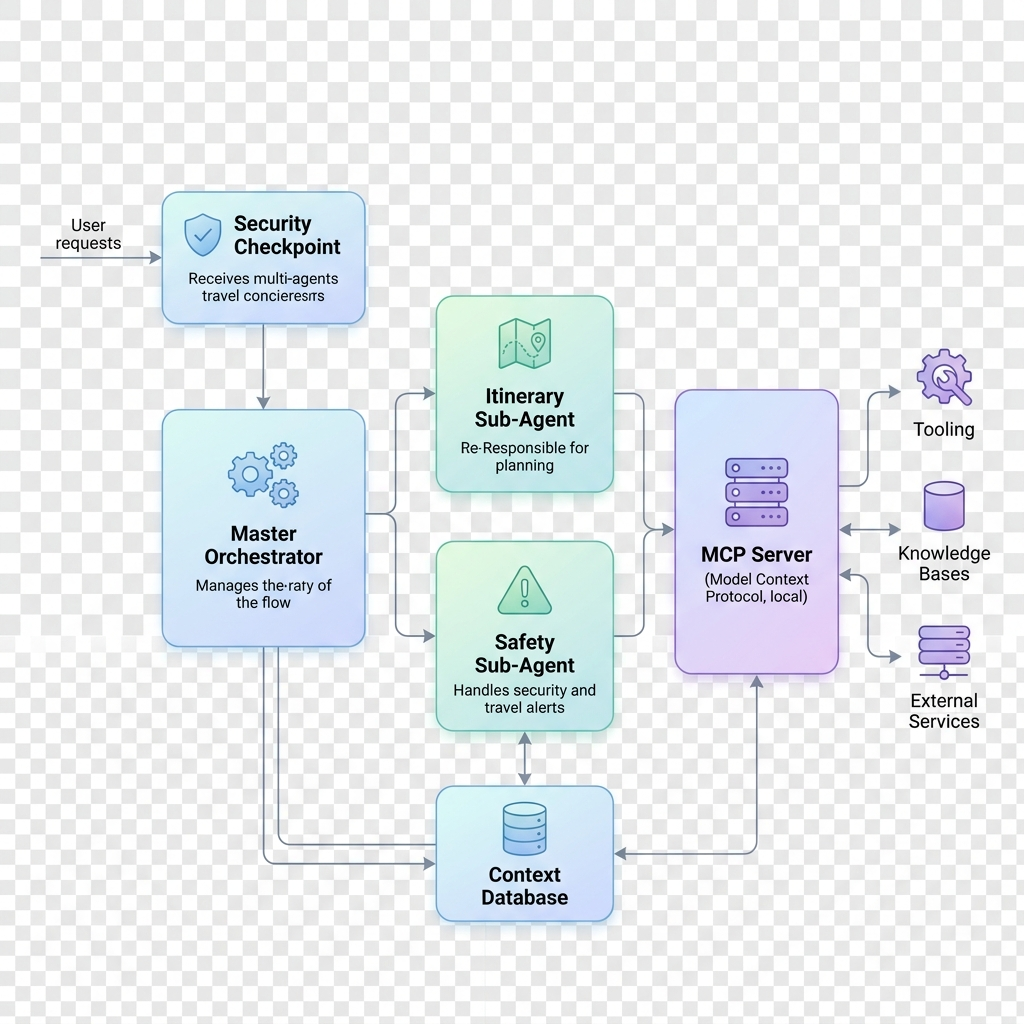
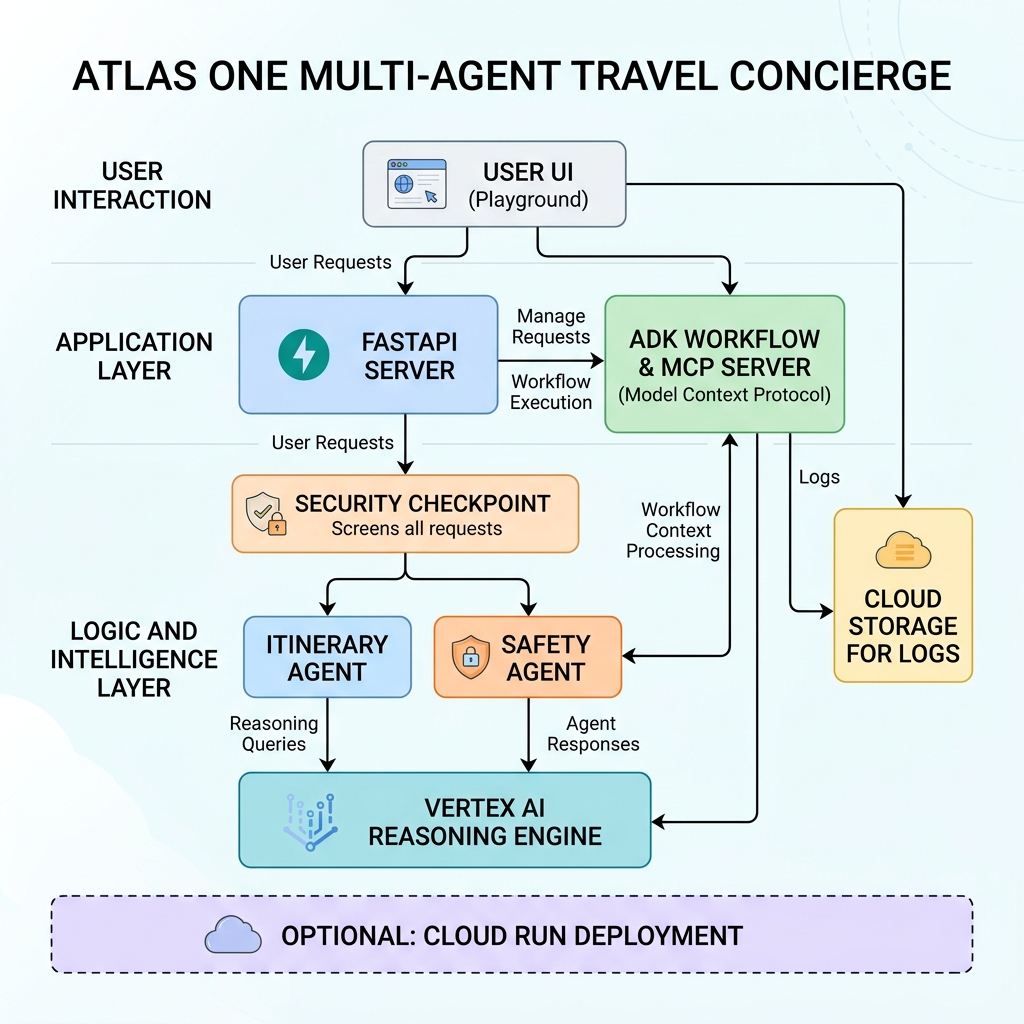
update in readme.md

diff --git a/README.md b/README.md
@@ -1,82 +1,146 @@
-# Atlas One: Multi-Agent Travel Concierge
+# Atlas One: Multi‑Agent Travel Concierge
 
-Atlas One is a secure, multi-agent travel concierge application built using the Agent Development Kit (ADK) 2.0 framework and Model Context Protocol (MCP). It features a robust multi-agent orchestration architecture, a local MCP server for real-time travel intelligence, a security checkpoint with PII scrubbing and threat blocking, and Human-in-the-Loop (HITL) execution.
+**Atlas One** is a secure, multi‑agent travel concierge built with the **Agent Development Kit (ADK) 2.0** and the **Model Context Protocol (MCP)**.  It showcases a robust workflow, PII‑scrubbing, prompt‑injection protection, and a Human‑in‑the‑Loop (HITL) confirmation step.
 
 ---
 
-## 🛠️ Project Structure
-
+## 📁 Project Structure
 ```
 atlas-one/
-├── app/
-│   ├── agent.py               # Workflow graph, security checkpoint, and agent definitions
-│   ├── config.py              # Application settings and model configurations
-│   └── mcp_server.py          # FastMCP server exposing travel advisory tools
-├── assets/                    # Generated project assets (architecture diagram, banner)
-├── debug_agent.py             # Offline test runner harness
-├── pyproject.toml             # Project dependencies and tool settings
-├── README.md                  # Main documentation
-└── SUBMISSION_WRITEUP.md      # Detailed architecture, security design, and verification writeup
+├── app/                     # Core agent code
+│   ├── agent.py            # Workflow graph, security checkpoint, sub‑agents
+│   ├── config.py           # Model & environment configuration
+│   └── mcp_server.py       # FastMCP server exposing travel‑tool APIs
+├── assets/                  # Architecture diagram, banner images
+├── debug_agent.py           # Offline test harness (runs the whole workflow locally)
+├── pyproject.toml           # Python dependencies & tool settings
+├── README.md                # Main documentation
+├── SUBMISSION_WRITEUP.md    # Detailed design & verification report
+└── tests/                   # Unit / integration tests (generated by ADK)
 ```
 
 ---
 
-## 🚀 Quick Start
+## 🚀 Quick Start (Local Development)
 
-### 1. Prerequisites
-- **Python**: 3.12 or higher
-- **uv**: Package manager (Install from [astral.sh/uv](https://astral.sh/uv))
-- **agents-cli**: Install via `uv tool install google-agents-cli`
+### 1️⃣ Prerequisites (one‑time)
+- **Python 3.12+** – check with `python --version`
+- **uv** – lightweight Python package manager
+  ```powershell
+  powershell -ExecutionPolicy Bypass -c "irm https://astral.sh/uv/install.ps1 | iex"
+  ```
+- **agents‑cli** – ADK command‑line interface
+  ```powershell
+  uv tool install google-agents-cli
+  ```
+- **Git** – required for pushing to GitHub
 
-### 2. Environment Setup
-Configure your API keys in the `.env` file in the project root:
+### 2️⃣ Environment variables
+Create a `.env` file in the project root (already present) and fill in your Gemini API key:
 ```env
 GOOGLE_API_KEY=YOUR_GEMINI_API_KEY
-GOOGLE_GENAI_USE_VERTEXAI=False
-GEMINI_MODEL=gemini-2.5-flash-lite
+GOOGLE_GENAI_USE_VERTEXAI=False   # Use Gemini API directly (set True for Vertex AI)
+GEMINI_MODEL=gemini-2.5-flash-lite   # You can switch to any Gemini model you prefer
 ```
+> **Tip:** If you run into quota limits, switch `GEMINI_MODEL` to `gemini-2.5-flash-lite` or a paid model.
 
-### 3. Install Dependencies
-Run the install command to set up the virtual environment and sync dependencies:
-```bash
+### 3️⃣ Install dependencies
+```powershell
 uv sync
 ```
+This creates a virtual environment under `.venv` and installs everything declared in `pyproject.toml`.
 
-### 4. Run the Playground UI
-Start the local development playground:
-```bash
+### 4️⃣ Run the Playground UI (interactive web UI)
+```powershell
 uv run adk web app --host 127.0.0.1 --port 18081
 ```
-Open your browser and navigate to: **[http://localhost:18081](http://localhost:18081)**
+Open your browser at **http://localhost:18081** – you can now chat with Atlas One, see the workflow graph, and view logs.
 
----
-
-## 🧩 Architectural Workflow
-
-Atlas One implements a directed workflow graph:
-- **`START`** → **`security_checkpoint`**
-- **`security_checkpoint`** → Checks if input is safe.
-  - If unsafe: routes to `final_output_node` with a security warning.
-  - If safe: routes to `orchestrator_node`.
-- **`orchestrator_node`** → Interrupts to ask the user if they want to proceed (HITL).
-  - If user replies `"yes"`: coordinates planning by running the `orchestrator_agent`.
-  - The `orchestrator_agent` delegates itinerary planning to `itinerary_agent` and safety checks to `safety_agent`.
-  - Once information is retrieved, it synthesizes the final itinerary.
-- **`final_output_node`** → Extracts and formats the text output as markdown for the user.
-
----
-
-## 🛡️ Security Checkpoint
-The security checkpoint runs on every user input:
-1. **PII Redaction**: Email, Phone Number, Credit Card, and Passport number detection and masking. (Uses a smart passport regex to avoid redacting destination names like "Jaipur").
-2. **Jailbreak / Prompt Injection Blocking**: Blocks keywords such as `ignore previous instructions` or `jailbreak`.
-3. **Forbidden Activities**: Blocks illegal travel queries (e.g. `smuggle`, `contraband`).
-4. **Audit Logging**: Outputs structured JSON audit logs to standard output.
-
----
-
-## 🧪 Verification & Offline Testing
-You can run the offline test script to trace the entire workflow (initial message → confirmation prompt → resume → final itinerary):
-```bash
-uv run debug_agent.py
+### 5️⃣ Run the FastAPI server (backend only)
+```powershell
+uv run adk run app
 ```
+The API is exposed at **http://127.0.0.1:8090** and can be called programmatically.
+
+---
+
+## 🧪 Testing & Verification
+- **Offline test harness** (runs the whole workflow without hitting the Gemini API):
+  ```powershell
+  uv run debug_agent.py
+  ```
+- **Unit tests** generated by ADK (found under `tests/`):
+  ```powershell
+  uv run pytest tests/unit
+  ```
+Both commands should finish without errors.  If you see API‑related errors, check your `.env` values or switch to the offline fallback mode (the workflow already contains a `try/except` that uses local mock data).
+
+---
+
+## 📦 Deployment Options
+You can deploy the agent to a hosted environment with a single ADK command or provision the full GCP infrastructure with Terraform.
+
+### 1️⃣ Deploy to **Vertex AI Reasoning Engine** (Agent Engine) – recommended for production
+```powershell
+uv run adk deploy agent_engine --project=<YOUR_GCP_PROJECT_ID> --region=<GCP_REGION> app
+```
+- `app` points to the `app/` folder containing the agent definition.
+- You can also pass `--api_key=<YOUR_API_KEY>` to use Express Mode.
+
+### 2️⃣ Deploy to **Google Cloud Run** (containerised FastAPI)
+```powershell
+uv run adk deploy cloud_run --project=<YOUR_GCP_PROJECT_ID> --region=<GCP_REGION> app
+```
+Add `--with_ui` if you want the ADK Playground UI bundled (development only).
+
+### 3️⃣ Full **Terraform** deployment (infrastructure‑as‑code)
+1. Edit `deployment/terraform/single-project/vars/env.tfvars`:
+   ```hcl
+   project_name = "atlas-one"
+   project_id   = "your-gcp-project-id"
+   region       = "us-east1"
+   ```
+2. Initialise and apply:
+   ```powershell
+   cd deployment/terraform/single-project
+   terraform init
+   terraform apply -var-file="vars/env.tfvars"
+   ```
+Terraform will provision:
+- A Vertex AI Reasoning Engine instance (the actual agent runtime)
+- A Cloud Storage bucket for logs
+- IAM service accounts & required APIs
+- (Optional) Cloud Run service if you modify the Terraform to include it
+
+---
+
+## 🛡️ Security & Compliance Features
+- **PII redaction** – email, phone, credit‑card, and passport numbers are masked before any LLM call.
+- **Prompt‑injection detection** – keywords such as `ignore previous instructions`, `jailbreak`, etc. trigger a security alert.
+- **Forbidden‑activity blocking** – queries containing `smuggle`, `illegal`, `contraband`, … are rejected.
+- **Audit logging** – every security decision is emitted as structured JSON to `stdout` (captured by Cloud Logging when deployed).
+
+---
+
+## 📄 License
+This project is released under the **Apache 2.0 License**.  See the `LICENSE` file for full terms.
+
+---
+
+## 🤝 Contributing
+Feel free to open issues or pull requests.  When contributing:
+1. Fork the repository.
+2. Create a new branch.
+3. Run `uv sync && uv run pytest` to ensure all tests pass.
+4. Submit a PR with a clear description of your changes.
+
+---
+
+## 🌟 Acknowledgements
+- **Google AI Studio** – for the Gemini models.
+- **Agent Development Kit (ADK) 2.0** – the framework that powers multi‑agent orchestration.
+- **Vertex AI** – for the hosted Reasoning Engine deployment target.
+
+---
+
+**Happy coding!**   If you need any additional help (e.g., configuring a custom domain, enabling OpenTelemetry, or extending the security rules), just let me know.